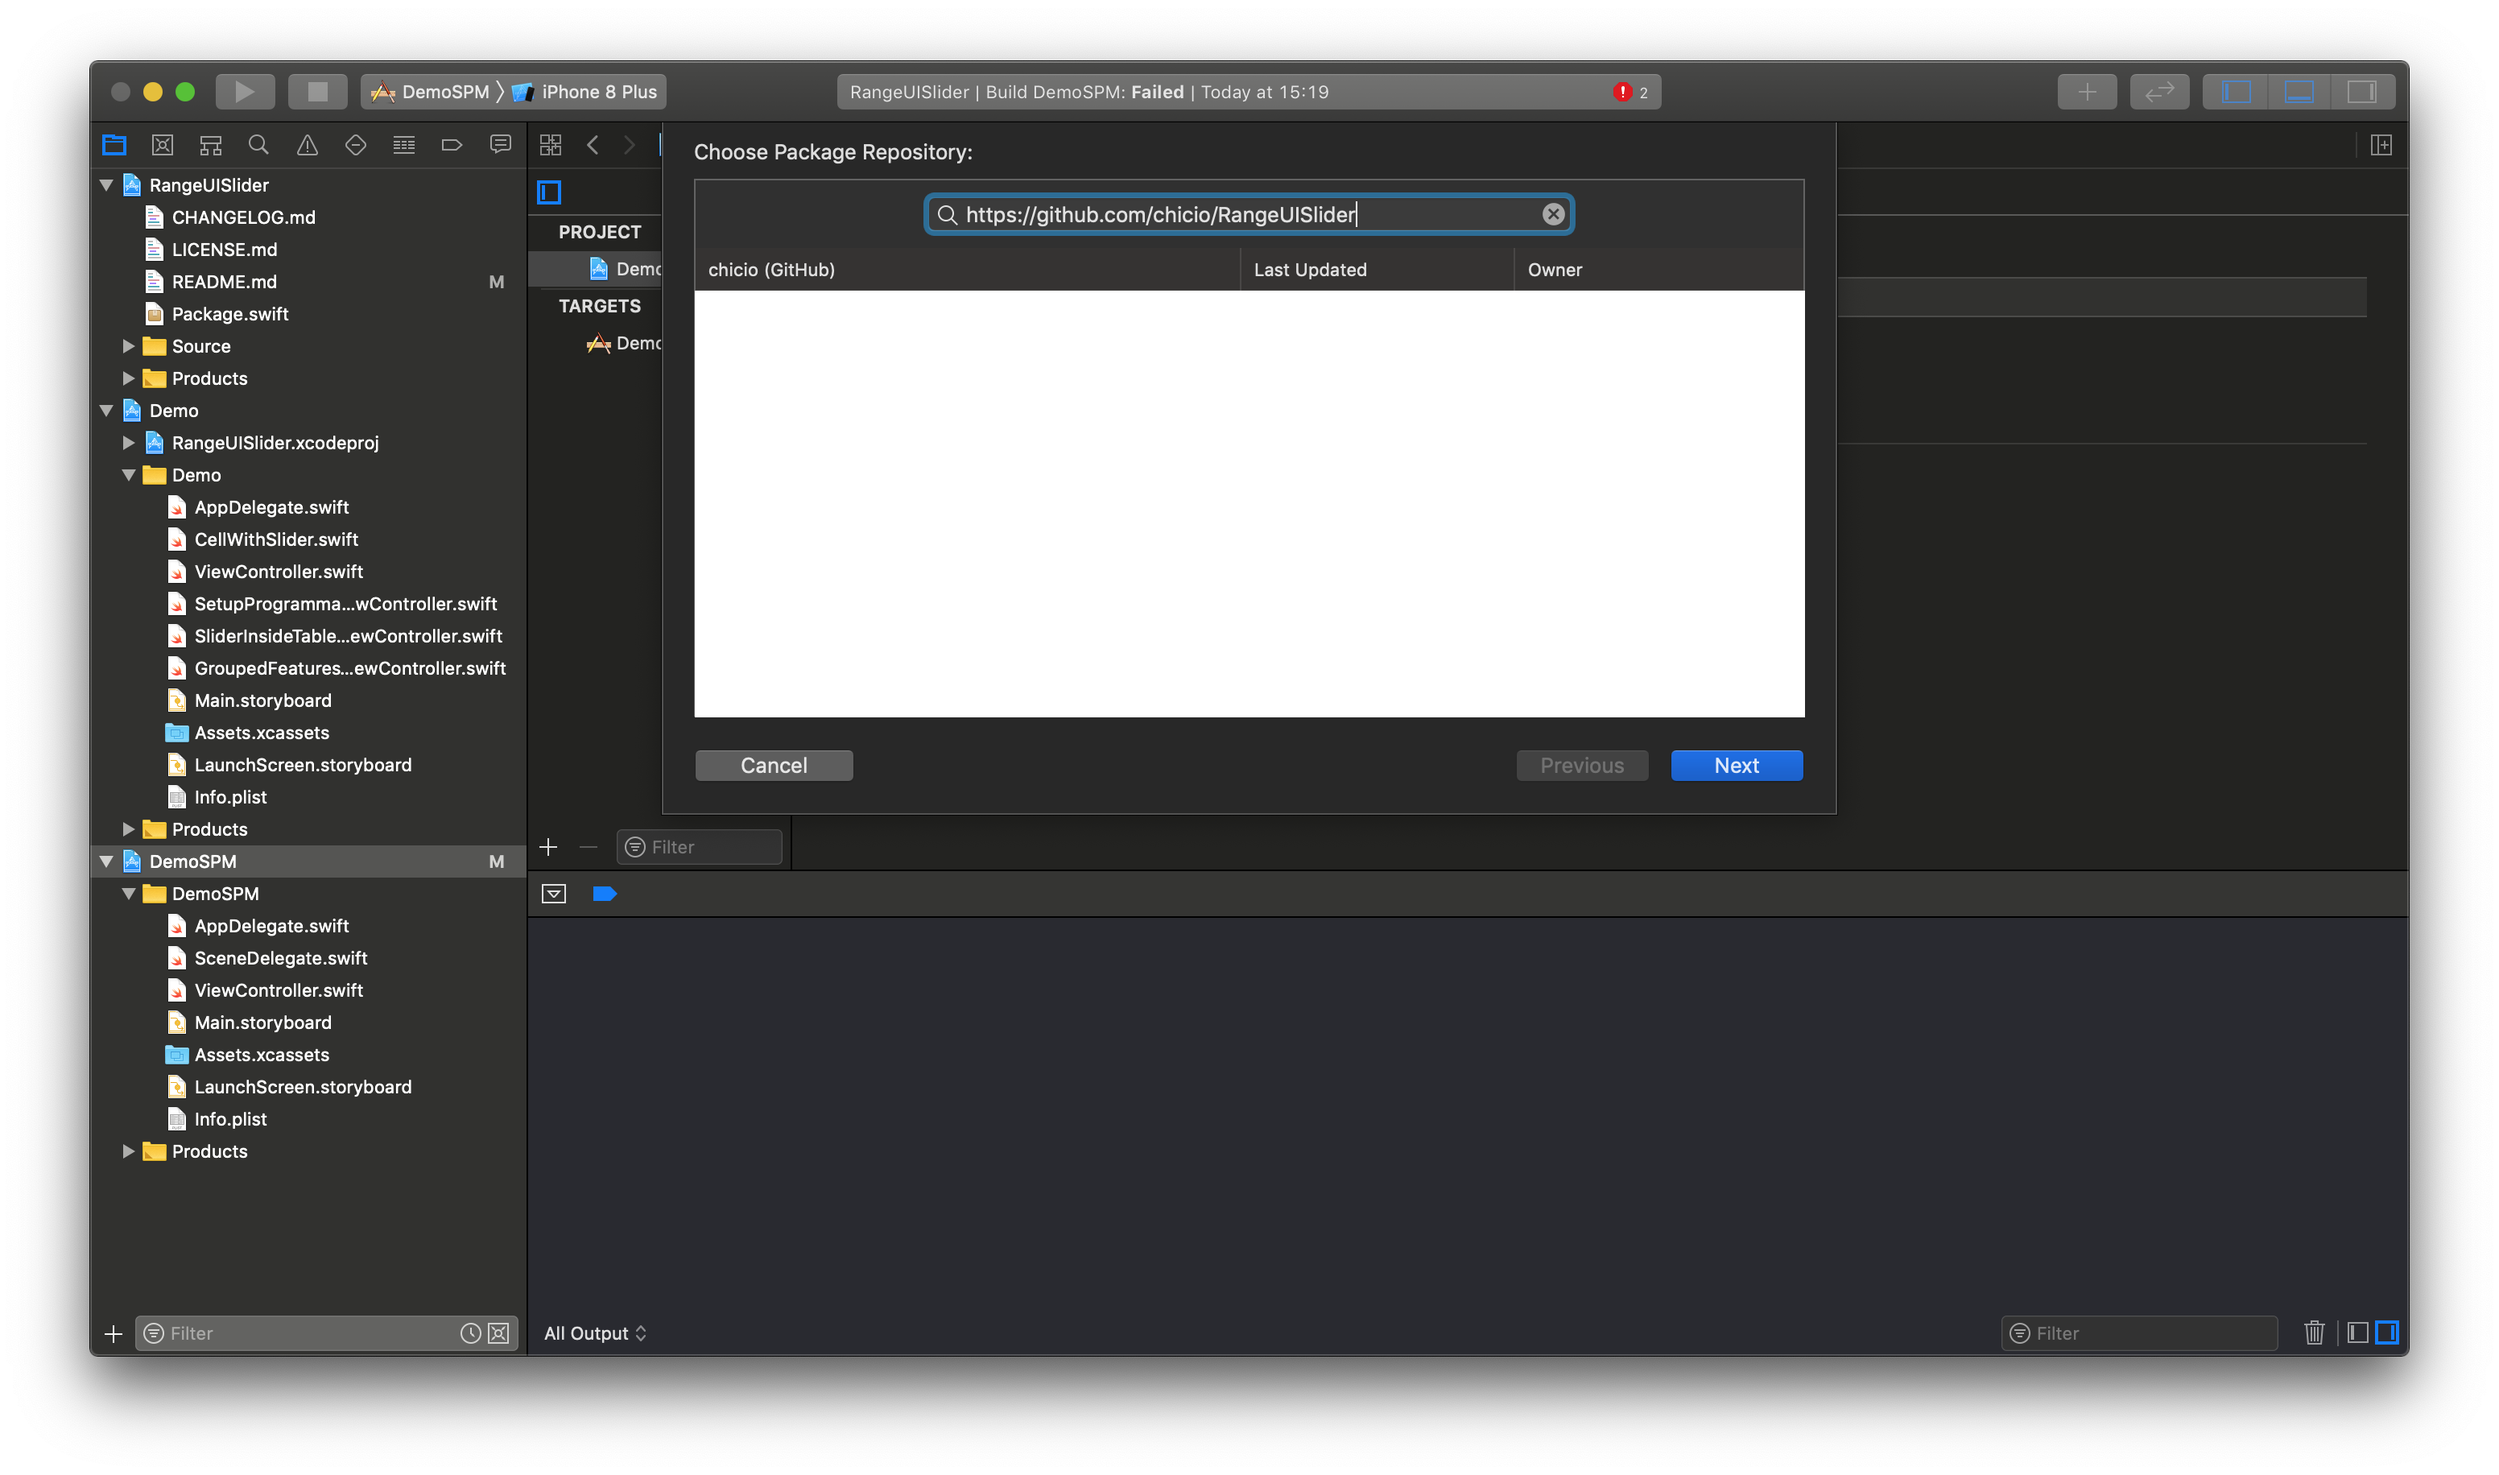
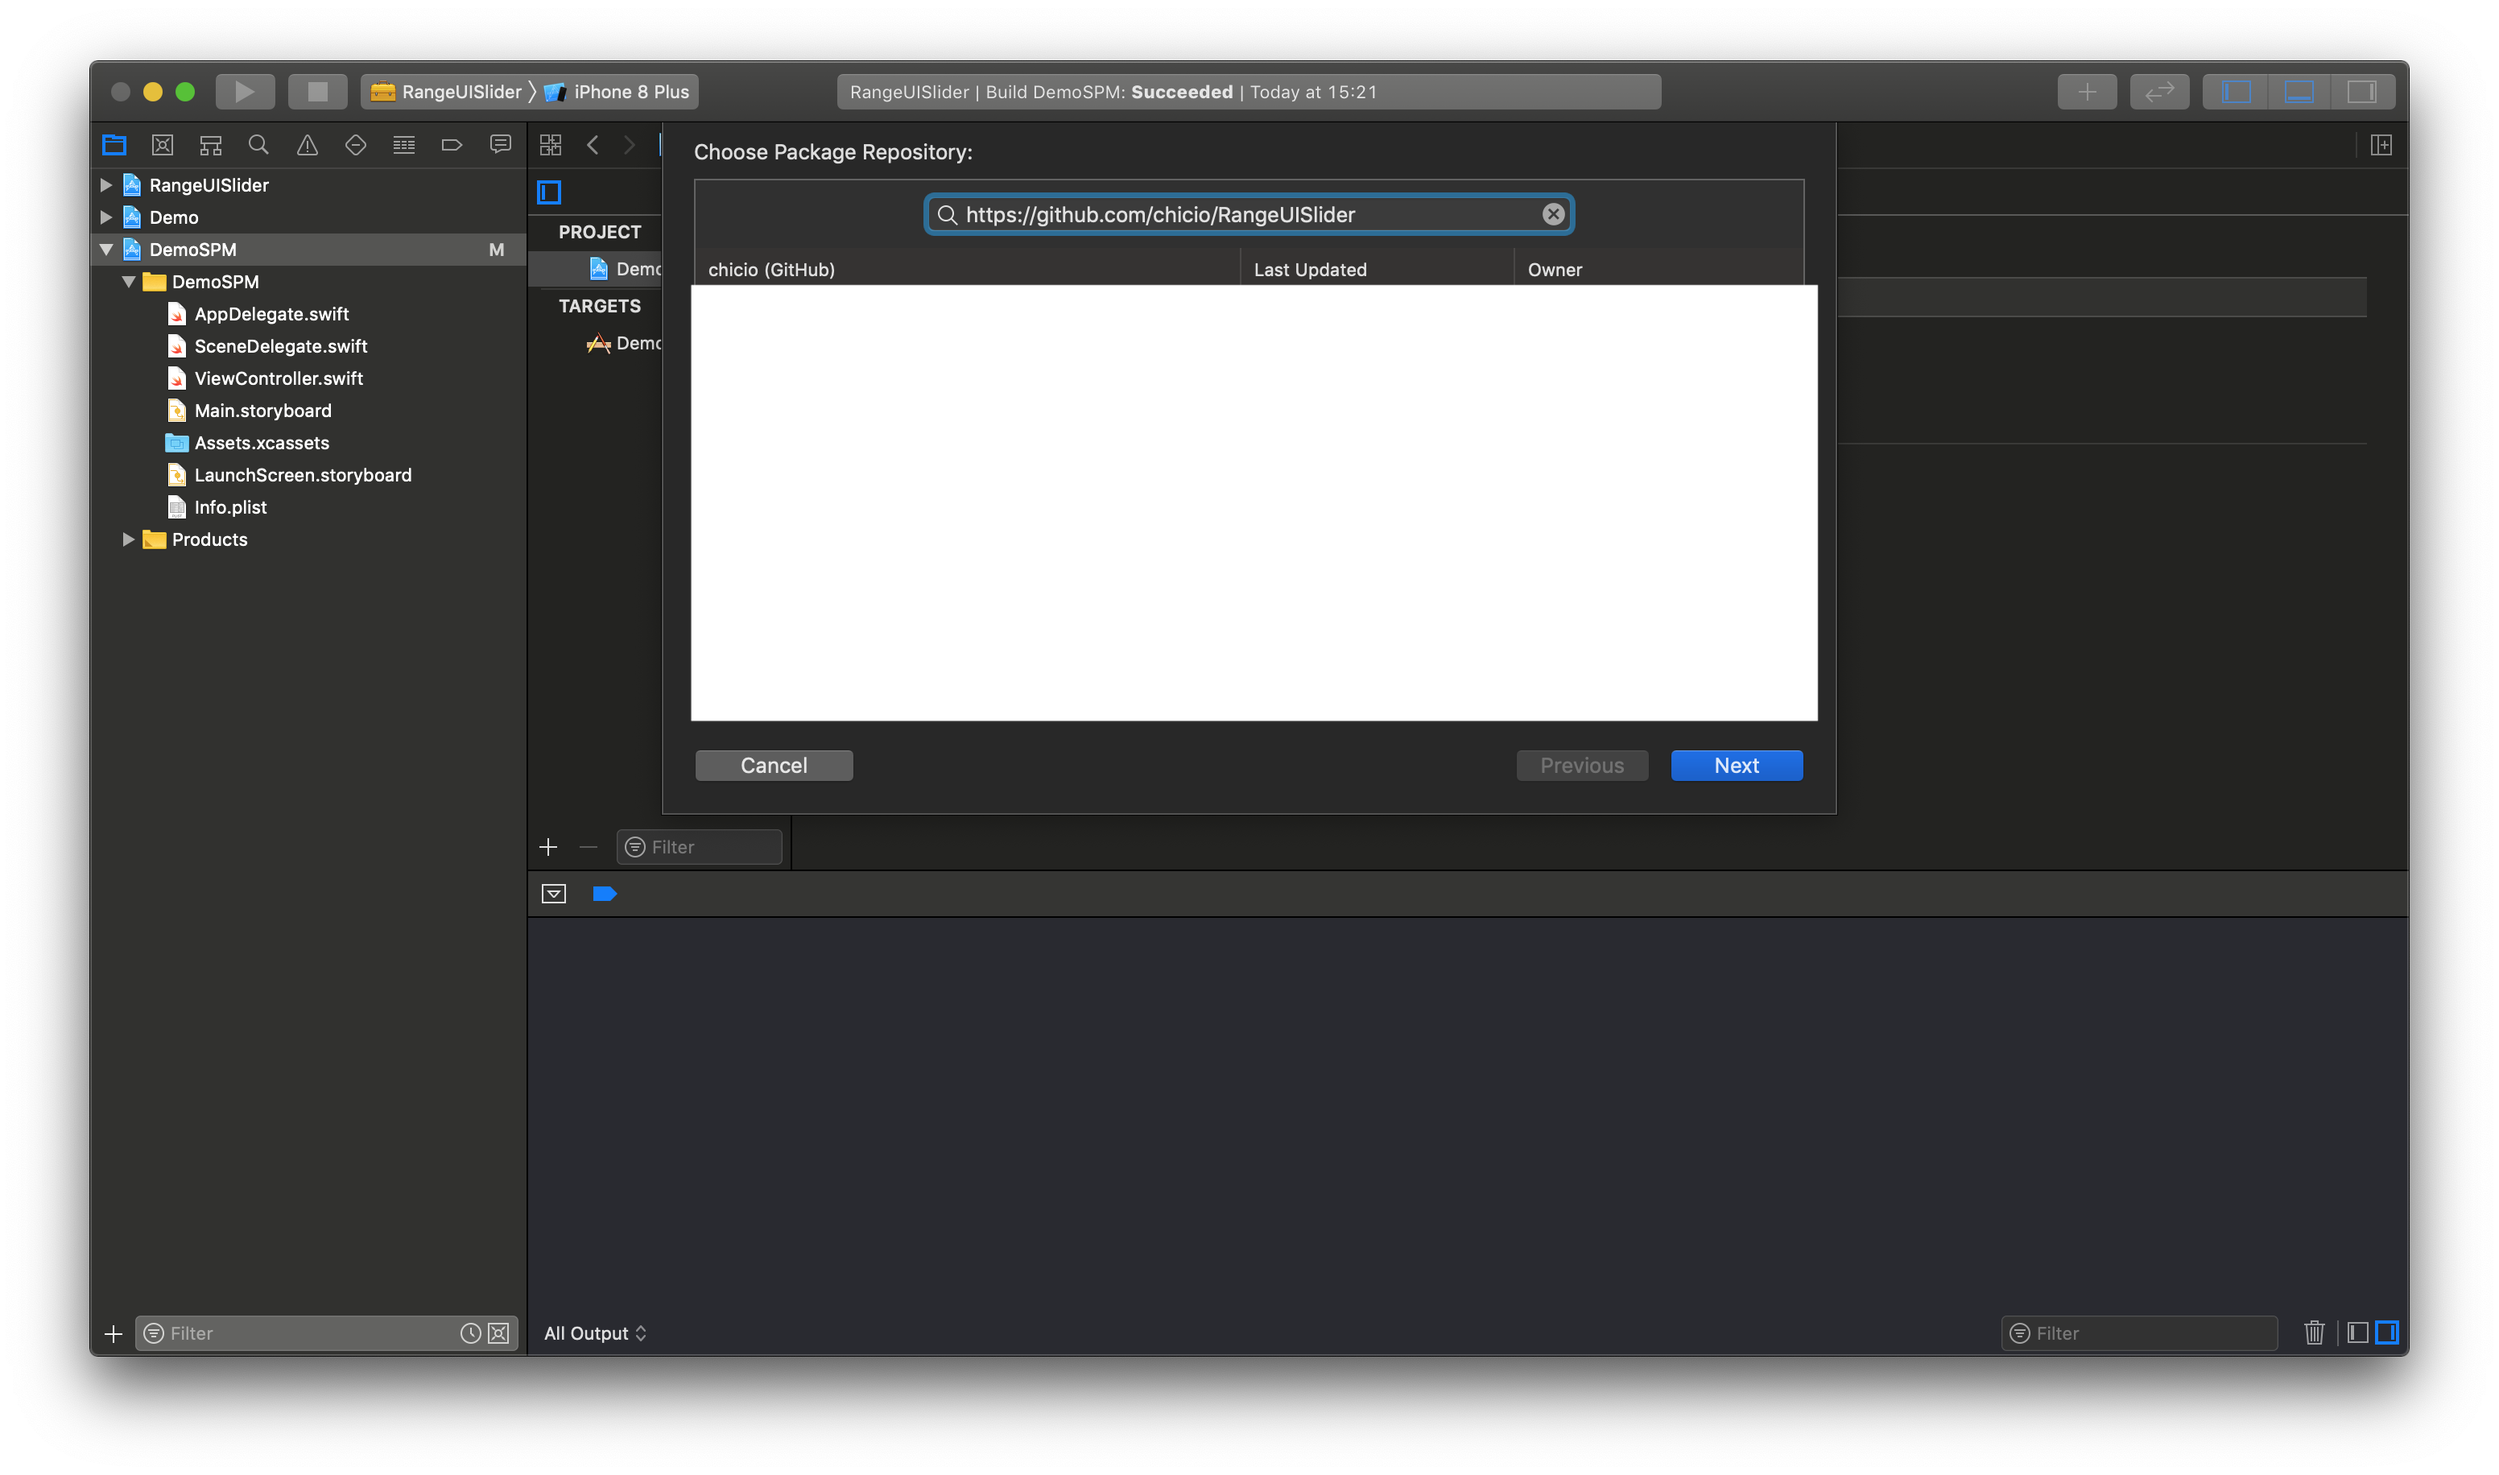
Updated screenshots :rocket:

Changed region(s): [[0.0312, 0.1245, 0.2188, 0.809], [0.2812, 0.1867, 0.75, 0.4978], [0.1562, 0.0311, 0.2812, 0.0933]]

diff --git a/README.md b/README.md
@@ -43,6 +43,7 @@ Choose master or a tag. If you choose the tag it must be >= 1.11.0.
 
 ![spm 1](https://raw.githubusercontent.com/chicio/RangeUISlider/master/Screenshots/05-spm1.png)
 ![spm 2](https://raw.githubusercontent.com/chicio/RangeUISlider/master/Screenshots/06-spm2.png)
+![spm 3](https://raw.githubusercontent.com/chicio/RangeUISlider/master/Screenshots/07-spm3.png)
 
 ***
 
